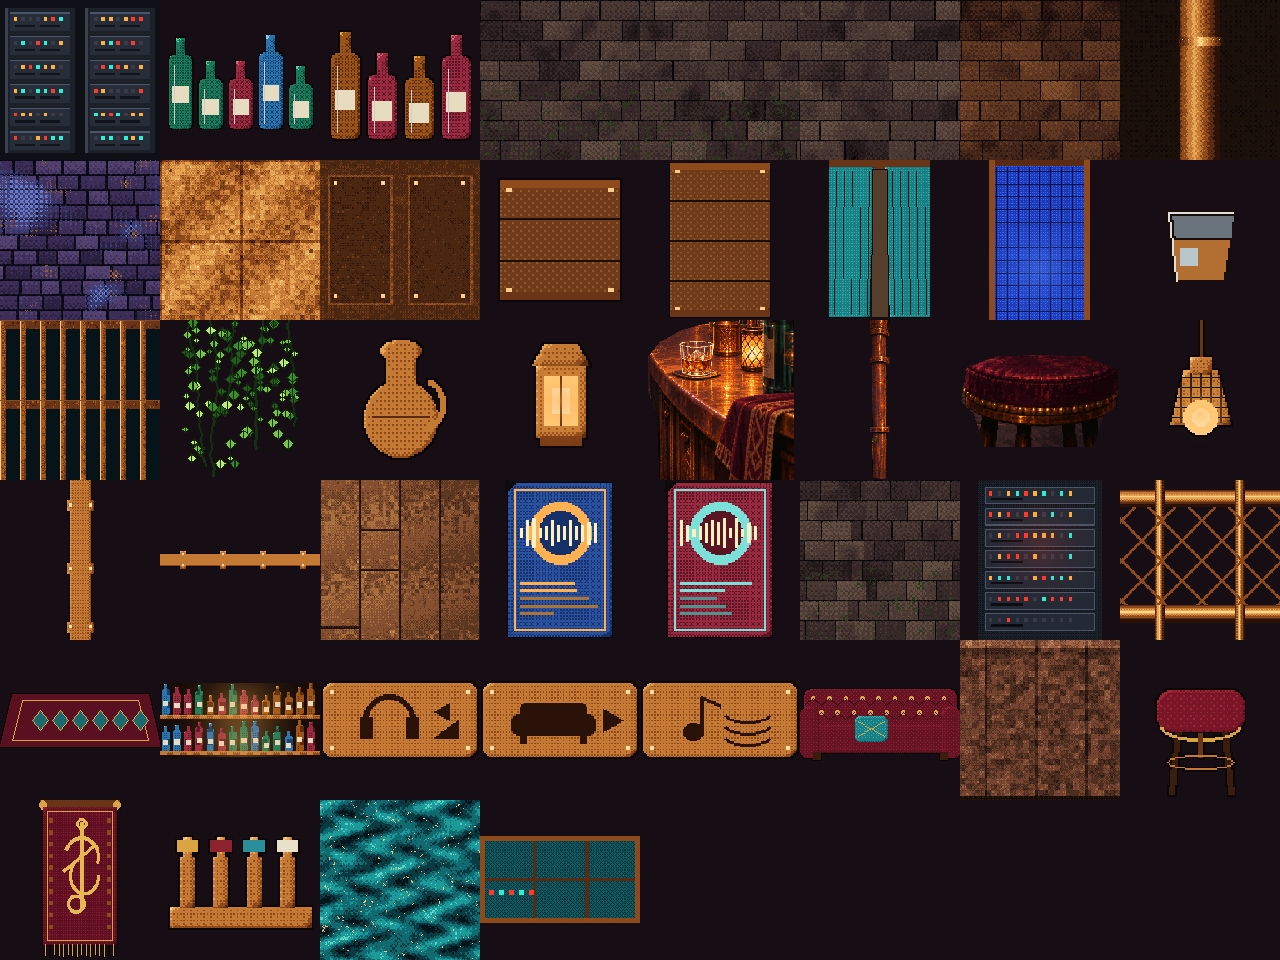
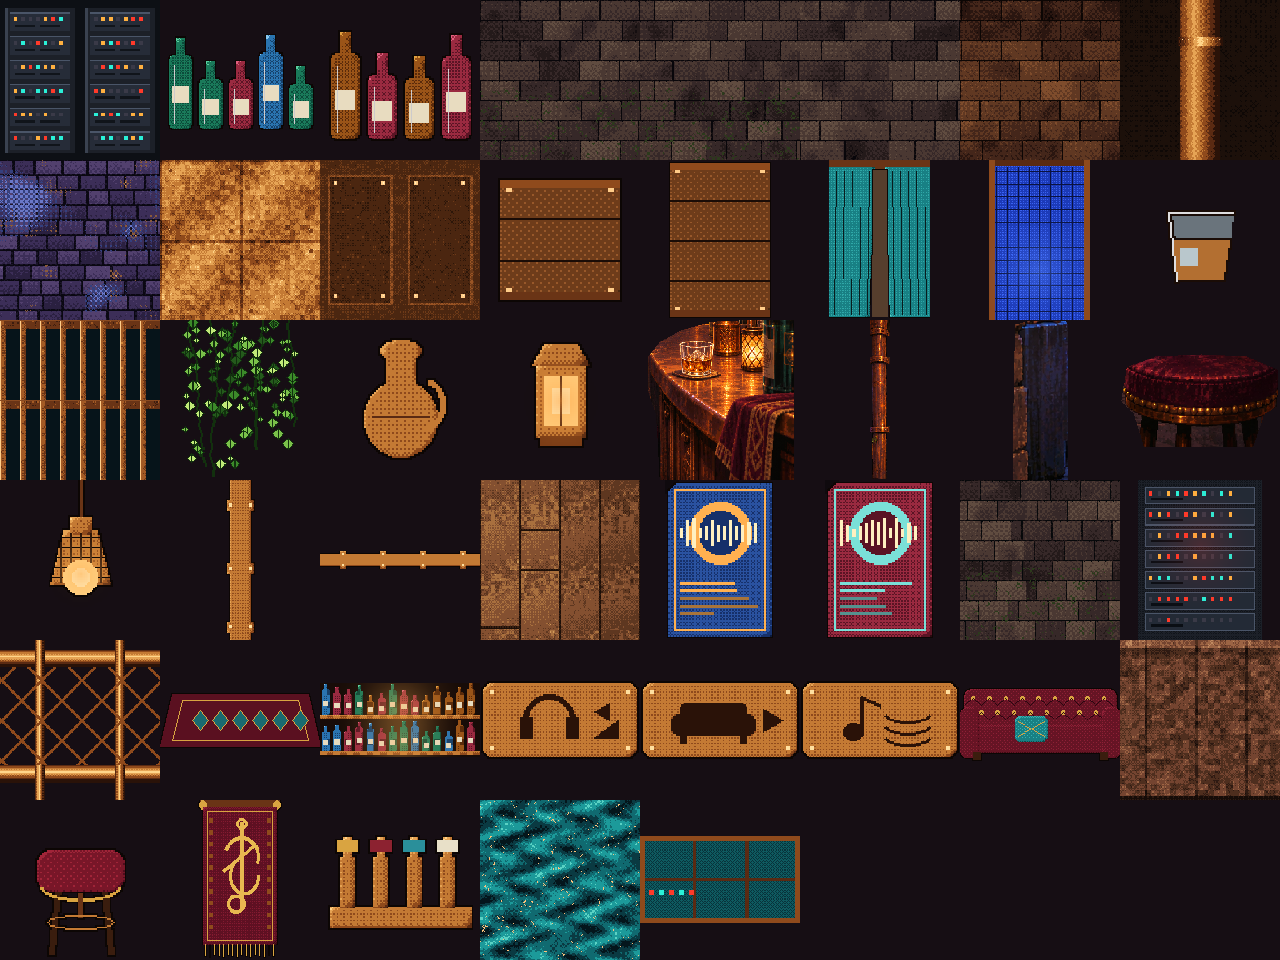
WIP stage D polish: the Floor guide's post, the Warehouse lounge guide's feet, dead legs_below
Bar: the stone post the Floor guide leans on, cut from the painting, under her hand (it rested on nothing). Warehouse: the lounge guide
0.5 m deeper into the lounge so his feet clear the pad strip from the raised wh_ref plate (test_doom_views failed 2 checks on it).
make_guides.py: the unused legs_below removed (continue_down draws below the cut).

Changed region(s): [[0.0, 0.3125, 1.0, 1.0]]

diff --git a/tools/doom/author_bar.py b/tools/doom/author_bar.py
@@ -83,7 +83,7 @@ for k in ("bridge_1", "bridge_2"):
     STYLE[k] = ("bar_grate", "bar_quay", "bar_ceiling", "#c8b0a0", "bar_quay")
 for k in ("bar_w", "bar_back", "bar_e", "bar_front"):
     STYLE[k] = ("bar_planks", "bar_brick_lit", "bar_ceiling", "#ffc080", "bar_step")
-OWN_TEX = ["bar_brick", "bar_brick_b", "bar_brick_c", "bar_p_stool", "bar_p_counter", "bar_p_pipe", "bar_brick_lit", "bar_cobble", "bar_planks", "bar_step", "bar_counter_front", "bar_copper", "bar_water", "bar_grate", "bar_quay", "bar_ceiling", "bar_booth_wall", "bar_railing",
+OWN_TEX = ["bar_brick", "bar_brick_b", "bar_brick_c", "bar_p_stool", "bar_p_counter", "bar_p_pipe", "bar_p_post", "bar_brick_lit", "bar_cobble", "bar_planks", "bar_step", "bar_counter_front", "bar_copper", "bar_water", "bar_grate", "bar_quay", "bar_ceiling", "bar_booth_wall", "bar_railing",
            "bar_pendant", "bar_lantern", "bar_crate", "bar_crate_tall", "bar_jug", "bar_stool", "bar_taps", "bar_bottles", "bar_bottles_b", "bar_glass", "bar_pipe_col", "bar_sofa",
            "bar_tapestry", "bar_poster_a", "bar_poster_b", "bar_sign_booth", "bar_sign_floor", "bar_sign_chill", "bar_shelf", "bar_ivy", "bar_pipe_h", "bar_rack", "bar_window", "bar_door_floor",
            "bar_curtain"]
@@ -120,6 +120,7 @@ THINGS = [  # extra dressing, billboards: id, sprite, point (m), y (centre above
     ("bar_col_a", "bar_p_pipe", (-1.62, 3.75), 1.6, 3.2), ("bar_crate_a", "bar_crate_tall", (-1.15, 3.95), 0.55, 1.1), ("bar_crate_b", "bar_crate", (-0.75, 3.95), 0.3, 0.6),
     ("bar_jug_c", "bar_jug", (-1.15, 3.95), 1.32, 0.45), ("bar_col_b", "bar_p_pipe", (1.3, 0.1), 1.6, 3.2), ("bar_crate_c", "bar_crate", (1.0, -2.5), 0.3, 0.6),
     ("bar_sofa", "bar_sofa", (5.9, 5.9), 0.5, 1.0),
+    ("bar_post_floor", "bar_p_post", (-2.77, 3.12), 0.42, 0.84),  # stage D: the post under the Floor guide's hand (her crop leans on it, as in the painting)
     # the painting's foreground (stage D polish): its red velvet stool and the end of its copper counter with the whisky glass, cut from the painting, at the passage's east side
     ("bar_fg_stool", "bar_p_stool", (0.45, 1.3), 0.38, 0.75), ("bar_fg_counter", "bar_p_counter", (1.45, 0.75), 0.62, 1.25),  # 47 degrees right of wb_ref: the Chill-out guide (34 degrees) stays clear
 ]

diff --git a/tools/doom/art/make_guides.py b/tools/doom/art/make_guides.py
@@ -331,32 +331,6 @@ def cut_figure(src, poly, top, chin, cut, centre_x):
     return small, s, (centre_x - x0) * s, nh
 
 
-def legs_below(c, cut_row, spec, lean=0):
-    """Draws what the painting hides under the cut: a coat skirt (spec['coat']), then two legs and shoes, with the procedural painter (dithered, lit from the upper left)."""
-    top = FEET - FIG_H + cut_row
-    hx = CX + spec.get("leg_dx", 0) + lean
-    hw = spec.get("hip_w", 20)
-    if spec.get("coat"):
-        knee = FEET - 70
-        m, d = c.mask()
-        cw0, cw1 = spec.get("coat_w", (34, 30))
-        d.polygon([(hx - cw0, top - 2), (hx + cw0, top - 2), (hx + cw1, knee), (hx - cw1, knee)], fill=255)
-        c.paint(m, spec["coat"], seed=31)
-        m, d = c.mask()
-        d.polygon([(hx - 4, top - 2), (hx + 4, top - 2), (hx + 6, knee), (hx - 6, knee)], fill=255)
-        c.paint(m, spec.get("under", "#15141c"))
-    for sx_ in (-1, 1):
-        t = (hx + sx_ * hw * 0.45, top - 2)
-        foot = (hx + sx_ * spec.get("stance", 12), FEET - 10)
-        mid = ((t[0] + foot[0]) / 2, (t[1] + foot[1]) / 2)
-        r0 = spec.get("thigh", 12)
-        m = limb([t, mid, foot], [r0, r0 - 2, spec.get("ankle", 7)])
-        c.paint(m, spec["trousers"], seed=40 + sx_, sparkle=spec.get("sparkle"))
-        m, d = c.mask()
-        d.rounded_rectangle([foot[0] - 10 + sx_ * 3, foot[1] + 1, foot[0] + 10 + sx_ * 3, foot[1] + 10], radius=4, fill=255)
-        c.paint(m, spec.get("shoes", "#2a1a14"))
-
-
 def continue_down(c, fig, ox, oy, s, spec):
     """What the painting hides under the cut, continued from the painting's own pixels: the bottom rows of the cut (columns `src_span`, painting x) are repeated downward
     (mirror-tiled, darkening toward the floor) over a span that tapers from `hip` (sprite px either side of CX) to the ankles, split into two legs below `split` (0..1 of the

diff --git a/tools/doom/author_warehouse.py b/tools/doom/author_warehouse.py
@@ -111,7 +111,7 @@ STATES = {"idle": 1, "available": 5, "selected": 2, "committed": 2}
 GUIDES = {  # id suffix: doom point, size (height m), lamp point
     "stage": ((-300, -190), 2.2, (-330, -190)),
     "bar": ((-600, -300), 2.2, (-600, -250)),
-    "lounge": ((-465, -604), 2.2, (-440, -604)),
+    "lounge": ((-448, -604), 2.2, (-423, -604)),  # stage D: 0.5 m deeper into the lounge than the first pass, so his feet clear the pad strip from the raised wh_ref plate
 }
 # stage D exposure pass: the painting's caged wall lanterns along the hall's walls (here the faces of the 3 m terrace riser round the walkway), each a small emissive
 # billboard 0.25 m off the wall with an amber wall-wash light (SCONCE_LIGHTS): warm practicals against the cobalt, as the painting's far wall has them

diff --git a/tools/doom/art/make_bar_art.py b/tools/doom/art/make_bar_art.py
@@ -762,6 +762,9 @@ def polish_tiles():
             (462, 430), (452, 430), (452, 405), (462, 405), (462, 165), (452, 165), (452, 140), (462, 140), (462, 60), (452, 60)]
     rgb, al = wa.cut((450, 0, 530, 606), pipe, paint=paint)
     save("bar_p_pipe", rgb, al.astype(float))
+    # the stone post the Floor guide leans on (her crop keeps her hand at its top; the first pass left the hand on nothing)
+    rgb, al = wa.cut((92, 464, 172, 692), [(96, 470), (120, 464), (168, 466), (171, 470), (171, 692), (93, 692)], paint=paint)
+    save("bar_p_post", rgb, al.astype(float))
 
 
 def main():
